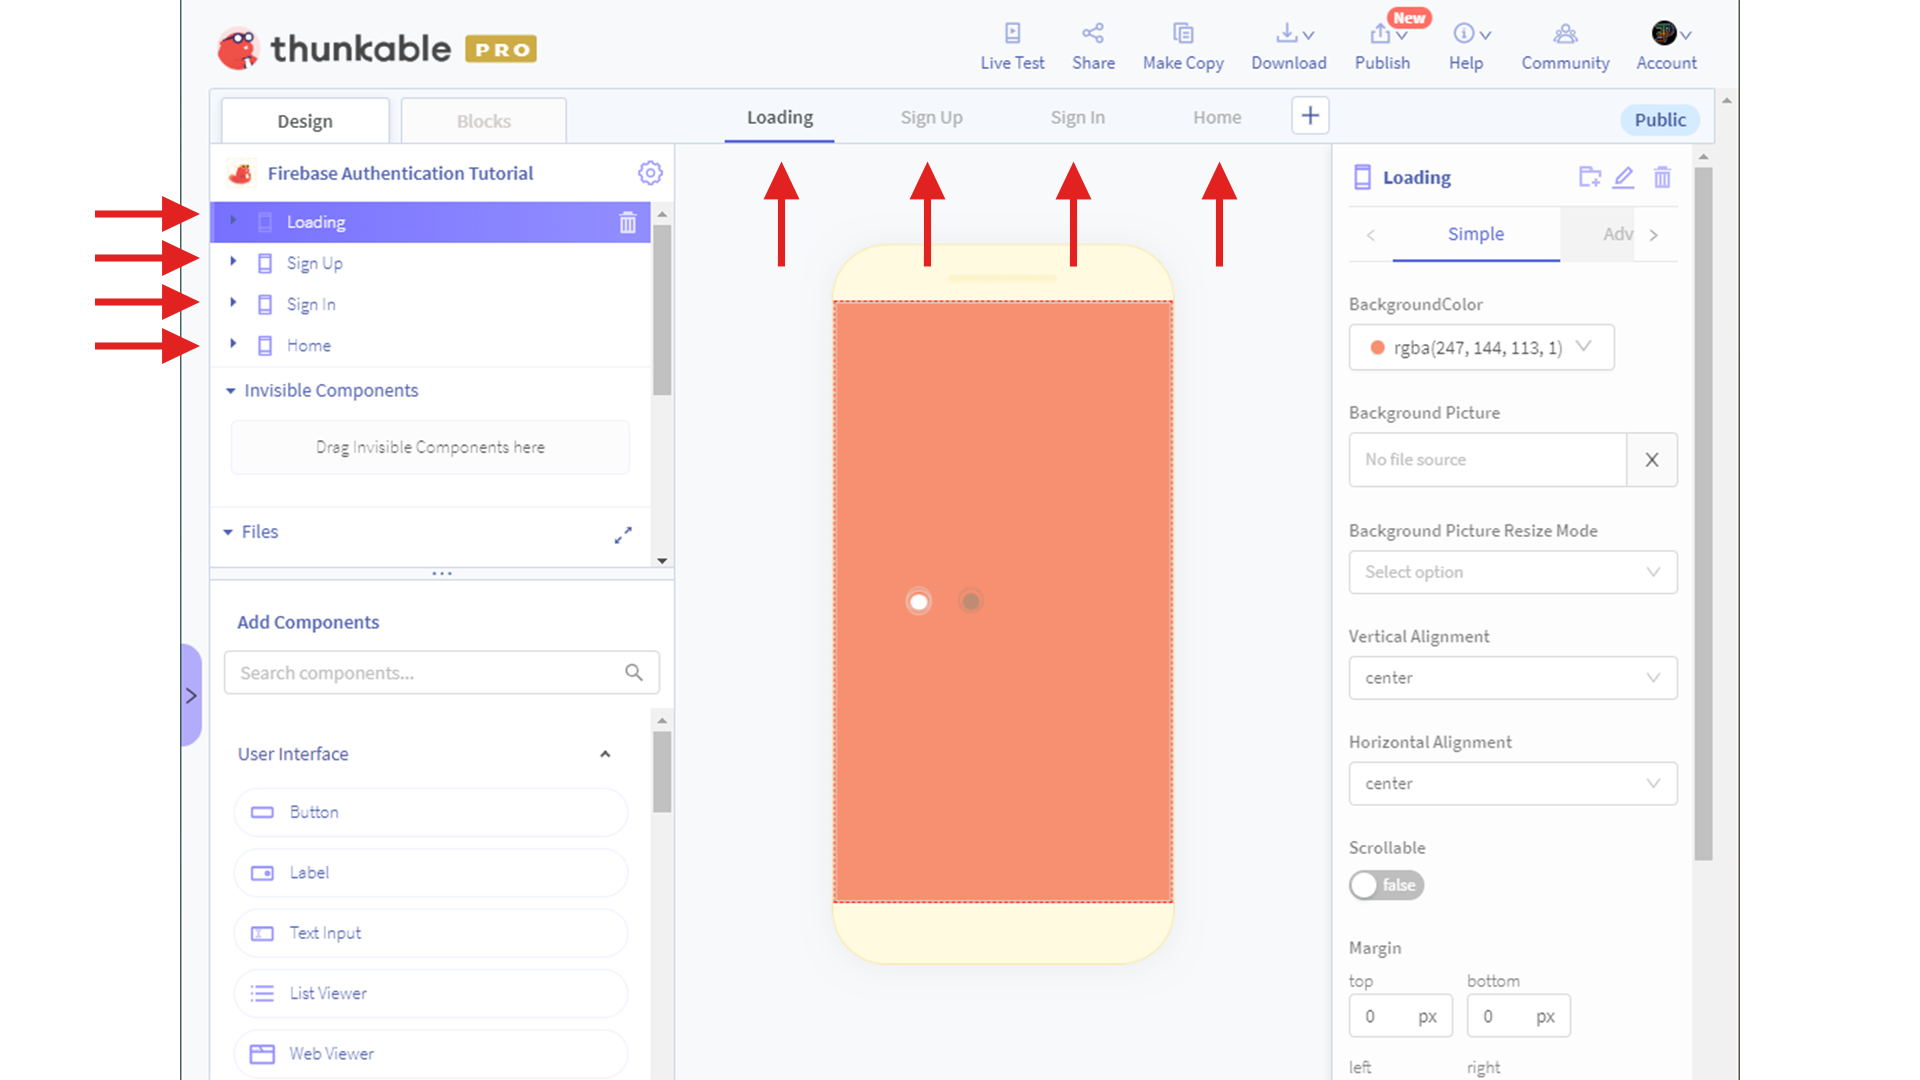
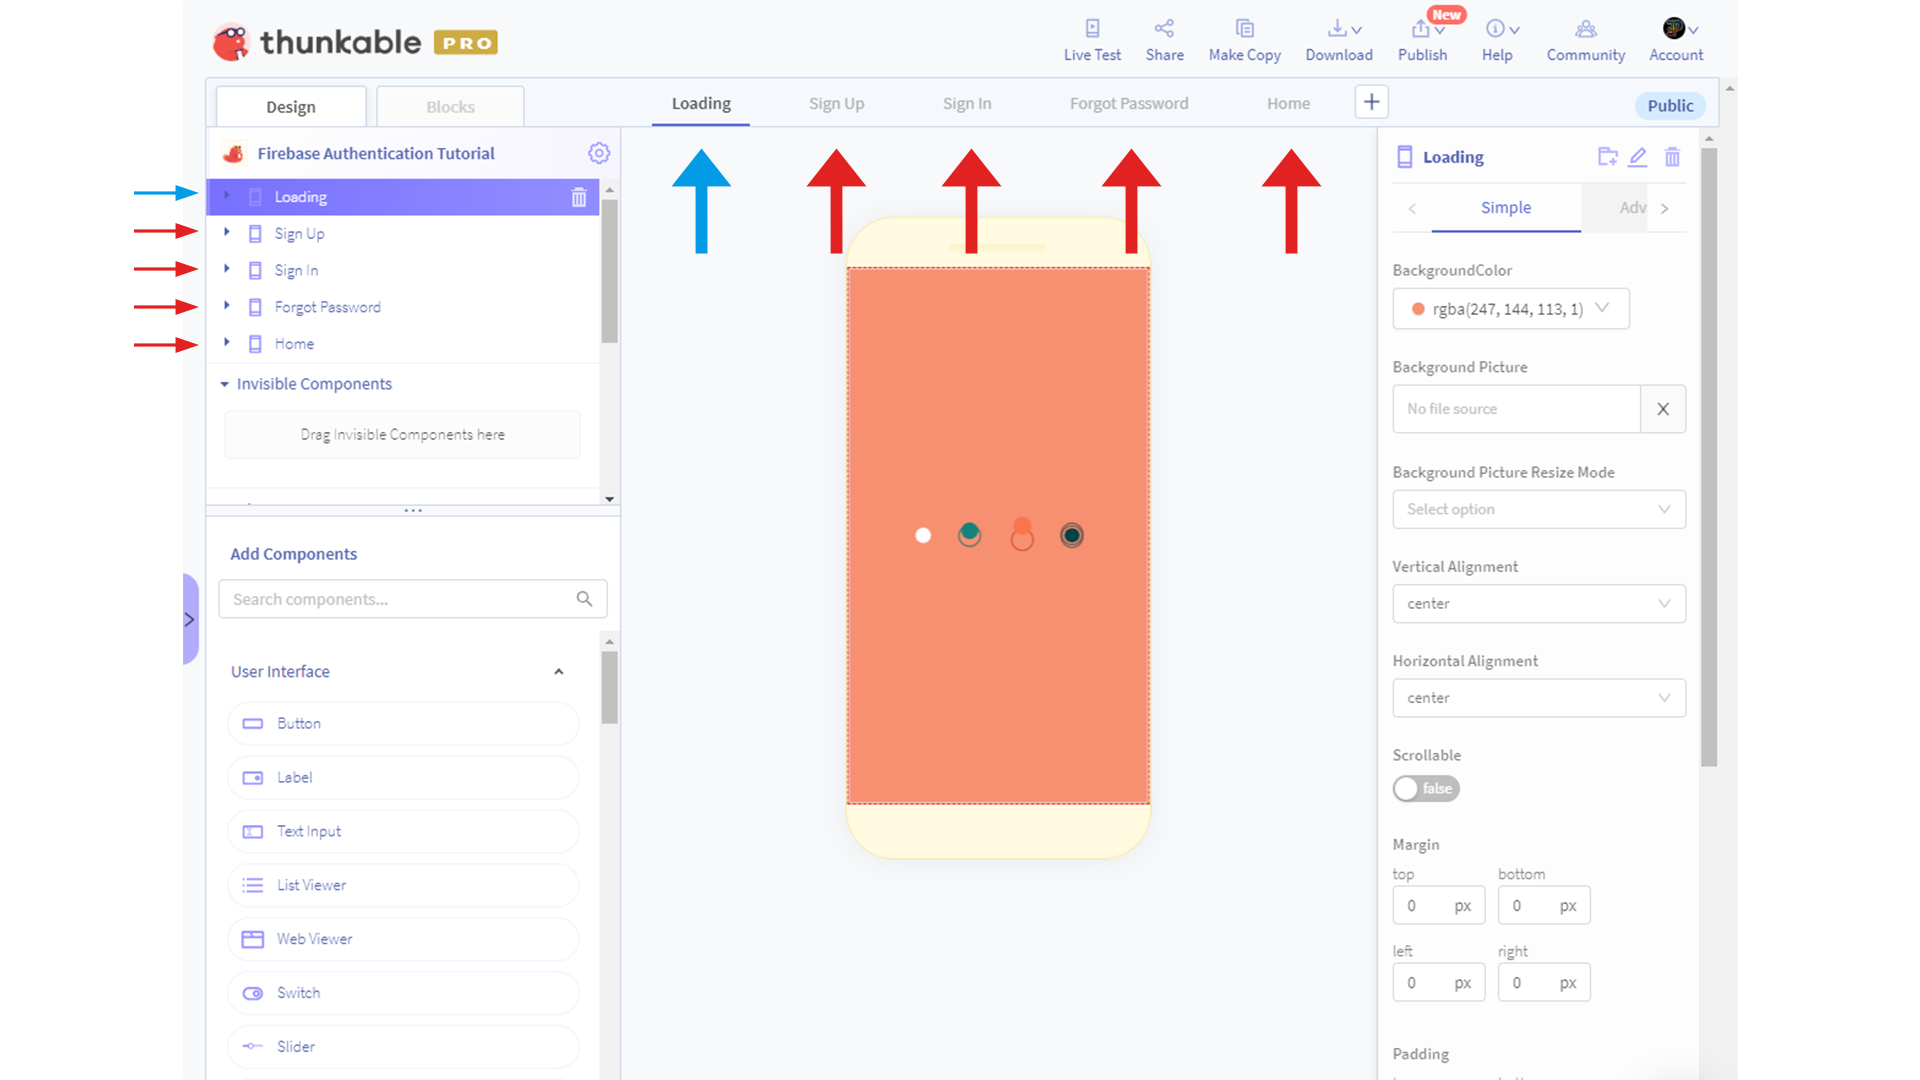
Update Posts “2020-04-28-authentication”

diff --git a/_posts/2020-04-28-authentication.md b/_posts/2020-04-28-authentication.md
@@ -11,13 +11,18 @@ So you've picked one of our beautiful templates. Now you're ready to make it wor
 
 # To Begin
 
-Assuming you've chosen [one of our templates](/portfolio), open up the template. Here you're going to see 4 screens at the top of the designer tab:
+Assuming you've chosen [one of our templates](/portfolio), open up the template. Here you're going to see 5 screens at the top of the designer tab:
 
 * Loading
 * Sign Up
 * Sign In
+* Forgot Password
 * Home
 
 ![Step 1](/images/step-1.png)
 
-Make sure the loading screen is at the top of the component list, which is located on the left of your designer screen.
+Make sure the loading screen is at the top of the component list, which is located on the left of your designer screen. This is shown in the image above with the blue arrow.
+
+# The Code
+
+Okay now we're going to start getting into it. Don't worry, it's not going to be difficult. There will be no fancy words or skipping steps. We will cover every bit of this. That way if you know a step you can skip it, and if you don't understand it, you soon will!
